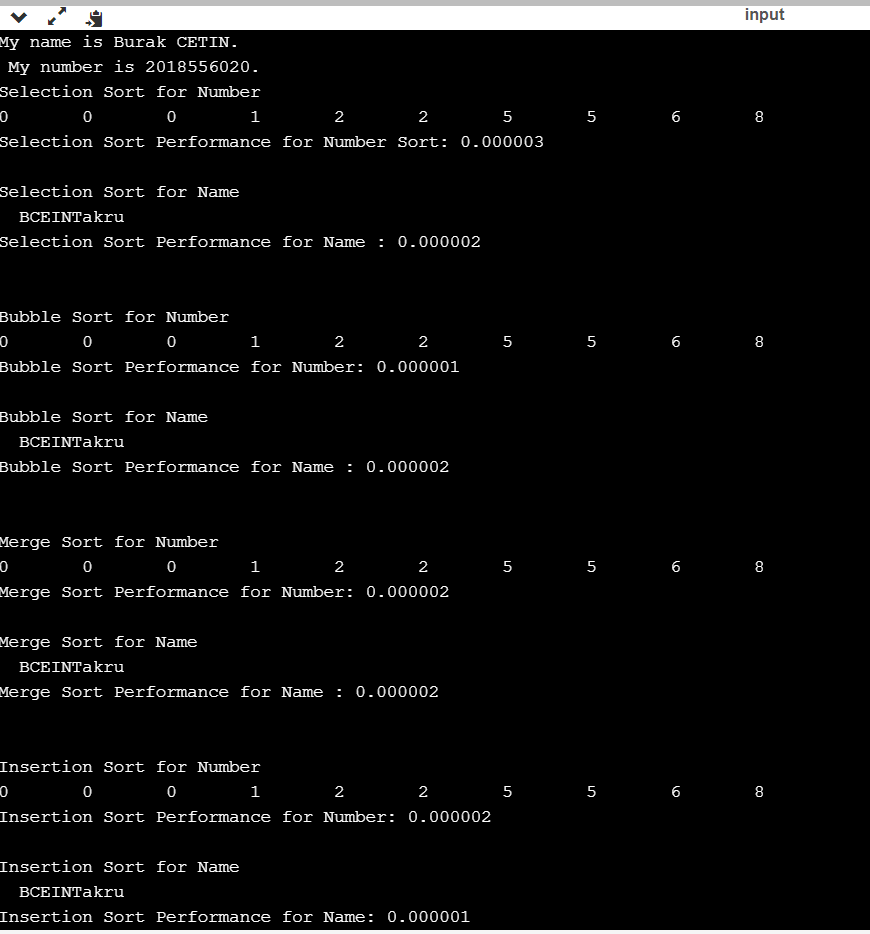
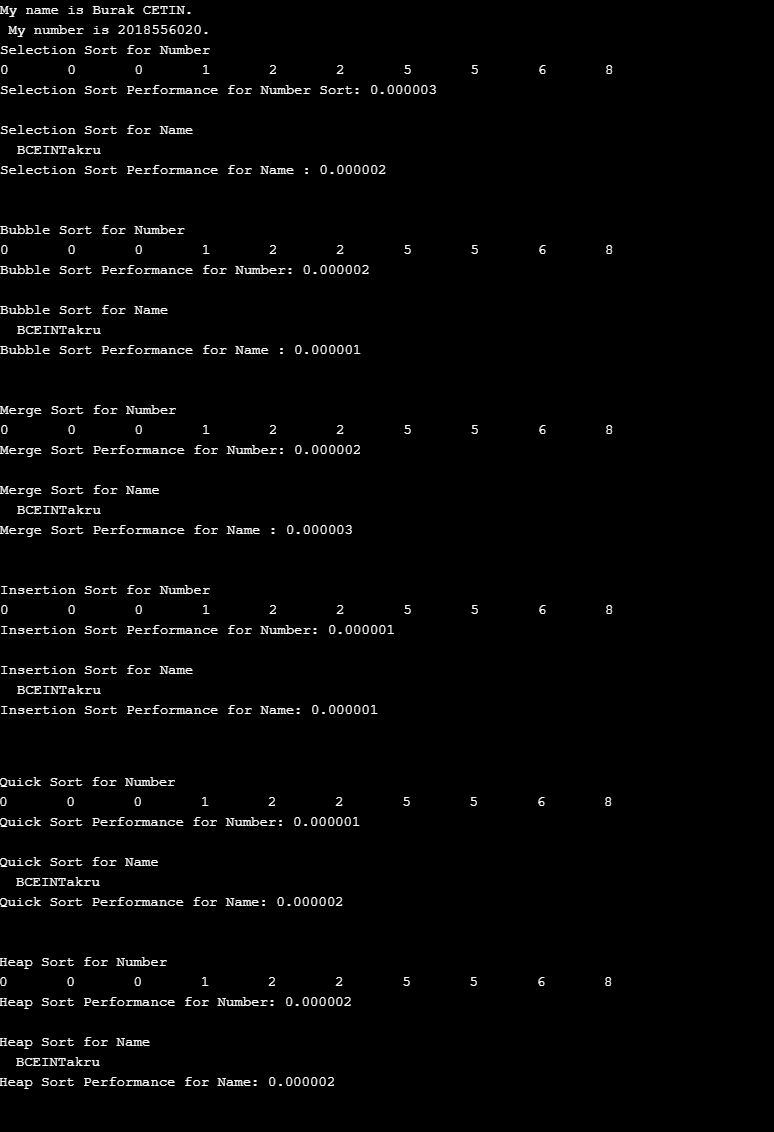
Hw2 Updated

diff --git a/Sorting/2018556020 Burak ÇETİN/main.c b/Sorting/2018556020 Burak ÇETİN/main.c
@@ -6,12 +6,14 @@ void swap(int* x, int* y) {
 	*x = *y;
 	*y = temp;
 }
+
 void swapName(char* xp, char* yp)
 {
 	char temp = *xp;
 	*xp = *yp;
 	*yp = temp;
 }
+
 // Selection Sort Algorithm
 void selectionSort(int array[], int size) {
 	int currentMin;
@@ -26,6 +28,7 @@ void selectionSort(int array[], int size) {
 		swap(&array[currentMin], &array[i]);
 	}
 }
+
 void selectionSortName(char array[], int size) {
 	char currentMin;
 	int i, j;
@@ -193,7 +196,133 @@ void insertionsortname(char array[], int size) {
 	}
 }
 
+int partition(int array[], int low, int high) {
 
+  int pivot = array[high];
+  int i = (low - 1);
+  int j;
+
+  for (j = low; j < high; j++) {
+    if (array[j] <= pivot) {
+      i++;
+      swap(&array[i], &array[j]);
+    }
+  }
+
+  swap(&array[i + 1], &array[high]);
+  return (i + 1);
+}
+
+void quickSort(int array[], int low, int high) {
+  if (low < high) {
+
+    int pi = partition(array, low, high);
+
+    quickSort(array, low, pi - 1);
+
+    quickSort(array, pi + 1, high);
+  }
+}
+
+char partitionChar(char array[], int low, int high) {
+
+  int pivot = array[high];
+  int i = (low - 1);
+  int j;
+
+  for (j = low; j < high; j++) {
+    if (array[j] <= pivot) {
+      i++;
+      swapName(&array[i], &array[j]);
+    }
+  }
+
+  swapName(&array[i + 1], &array[high]);
+  return (i + 1);
+}
+
+void quickSortName(char array[], int low, int high) {
+  if (low < high) {
+
+    int pi = partitionChar(array, low, high);
+
+    quickSortName(array, low, pi - 1);
+
+    quickSortName(array, pi + 1, high);
+  }
+}
+
+void heapify(int array[], int size, int i ) {
+	
+	int largest = i; //our loot is largest
+	int leftChild = 2 * i + 1;
+	int rightChild = 2 * i + 2;
+	if (array[leftChild] > array[largest] && leftChild < size) 
+	{
+		largest = leftChild;	
+	}
+	if (array[rightChild] > array[largest] && rightChild < size) 
+	{
+		largest = rightChild;	
+	}
+	if (largest != i) 
+	{
+		swap(&array[i], &array[largest]);
+		heapify(array, size, largest);
+	}
+	
+}
+
+void heapSort(int array[], int size){
+	int i;
+	for(i= size/2-1; i>=0 ;i--)
+	{
+		heapify(array, size, i);
+	}
+	int k;
+	for (k = size-1; k > 0 ;k--)
+	{
+		swap(&array[0],&array[k]);
+		
+		heapify(array, k,0);
+	}
+}
+
+void heapifyName(char array[], int size, int i ) {
+	
+	int largest = i; // largest loot
+	int leftChild = 2 * i + 1;
+	int rightChild = 2 * i + 2;
+	if (array[leftChild] > array[largest] && leftChild < size) 
+	{
+		largest = leftChild;	
+	}
+	if (array[rightChild] > array[largest] && rightChild < size) 
+	{
+		largest = rightChild;	
+	}
+	if (largest != i) 
+	{
+		swapName(&array[i], &array[largest]);
+		heapifyName(array, size, largest);
+	}
+	
+}
+
+void heapSortName(char array[], int size){
+	int i;
+	for(i= size/2-1; i>=0 ;i--)
+	{
+		heapifyName(array, size, i);
+	}
+	int k;
+	for (k = size-1; k > 0 ;k--)
+	{
+		swapName(&array[0],&array[k]);
+		
+		heapifyName(array, k,0);
+	}
+}
 
 
 void printArray(int array[], int size) {
@@ -275,7 +404,36 @@ int main() {
 	insertionsortname(insertionname, insertionnamesize);
 	t = (double)clock()-t;
 	printf("Insertion Sort for Name \n %s\nInsertion Sort Performance for Name: %f\n\n\n", insertionname,((double)t) / CLOCKS_PER_SEC);
-
+	
+	int quicksortnum[] = { 2,0,1,8,5,5,6,0,2,0};
+	char quicksortname[] = "Burak CETIN";
+	int quicksortsize = sizeof(quicksortnum) / sizeof(quicksortnum[0]);
+	int quicksortnamesize = strlen(quicksortname);
+	t = (double)clock();
+	quickSort(quicksortnum, 0, quicksortsize-1);
+	t = (double)clock()-t;
+	printf("Quick Sort for Number\n");
+	printArray(quicksortnum, quicksortsize);
+	printf("Quick Sort Performance for Number: %f\n\n", ((double)t) / CLOCKS_PER_SEC);
+	t = (double)clock();
+	quickSortName(quicksortname, 0, quicksortnamesize-1);
+	t = (double)clock()-t;
+	printf("Quick Sort for Name \n %s\nQuick Sort Performance for Name: %f\n\n\n", quicksortname,((double)t) / CLOCKS_PER_SEC);
+	
+	int heapsortnum[] = { 2,0,1,8,5,5,6,0,2,0 };
+	char heapsortname[] = "Burak CETIN";
+	int heapsortsize = sizeof(quicksortnum) / sizeof(quicksortnum[0]);
+	int heapsortnamesize = strlen(quicksortname);
+	t = (double)clock();
+	heapSort(heapsortnum, heapsortsize);
+	t = (double)clock()-t;
+	printf("Heap Sort for Number\n");
+	printArray(heapsortnum, heapsortsize);
+	printf("Heap Sort Performance for Number: %f\n\n", ((double)t) / CLOCKS_PER_SEC);
+	t = (double)clock();
+	heapSortName(heapsortname, heapsortnamesize);
+	t = (double)clock()-t;
+	printf("Heap Sort for Name \n %s\nHeap Sort Performance for Name: %f\n\n\n", heapsortname,((double)t) / CLOCKS_PER_SEC);
 
 
 	return 0;
